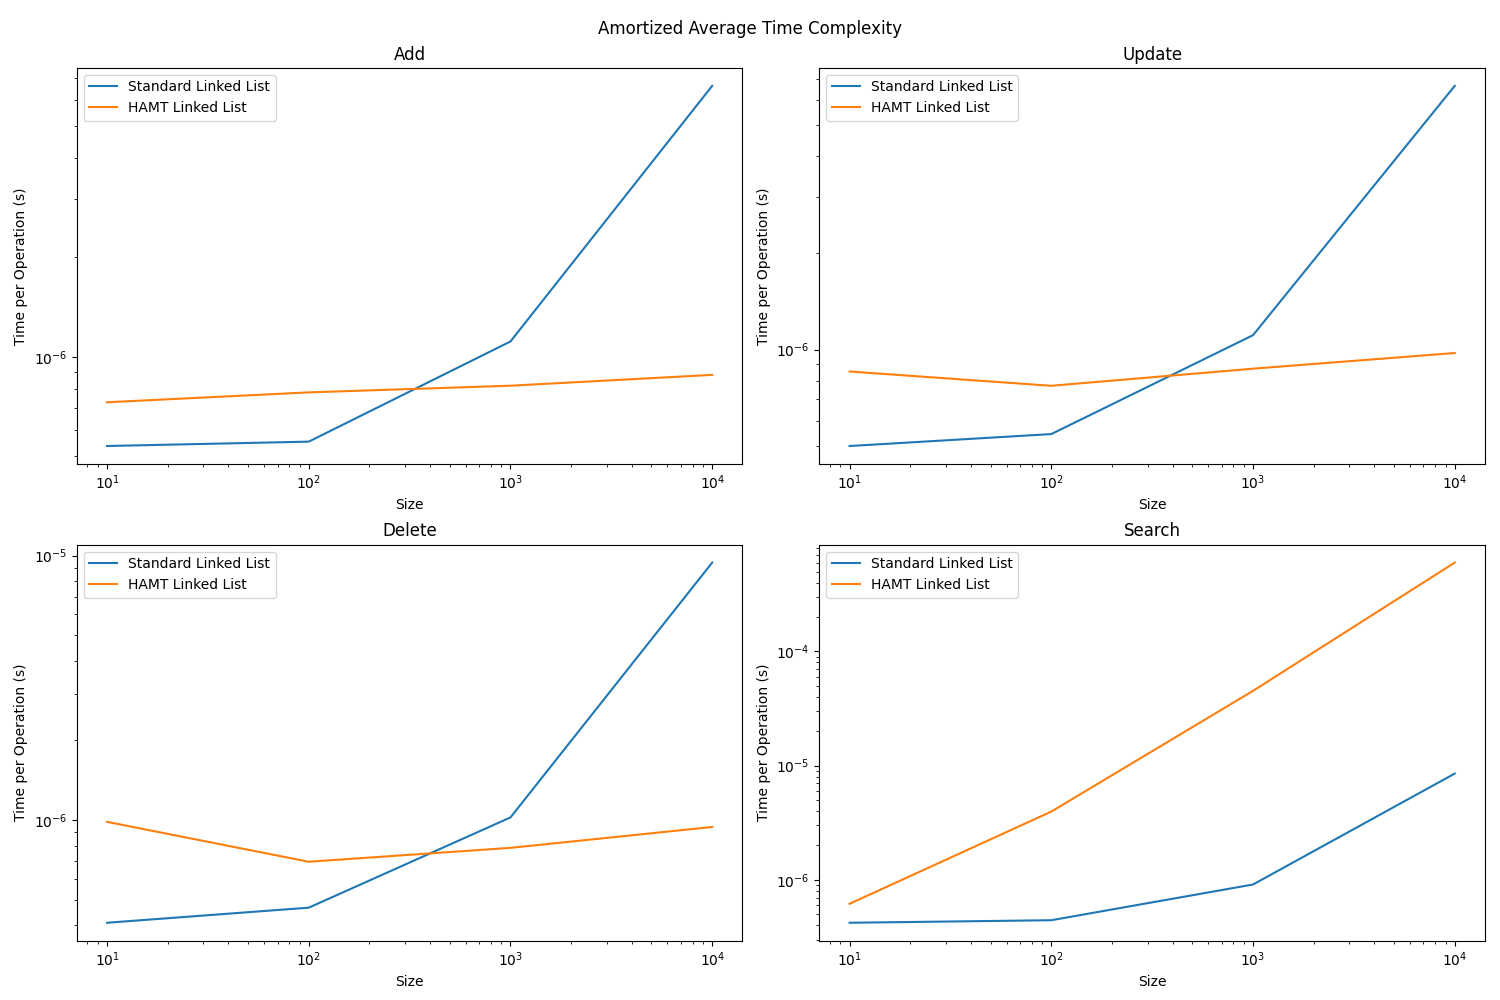
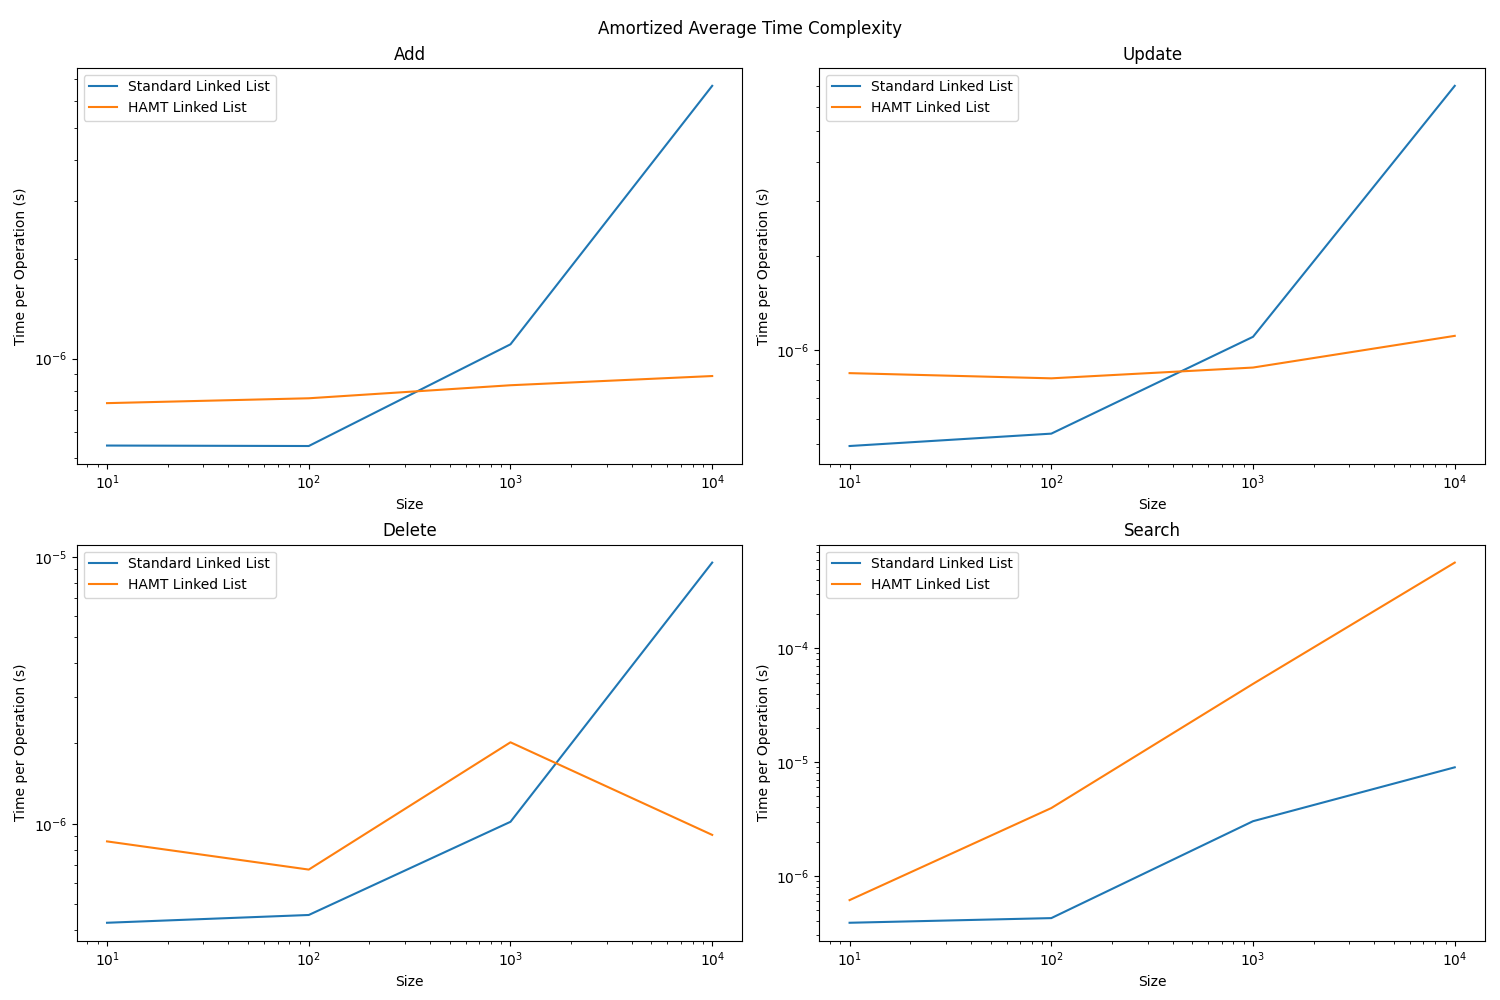
readme

diff --git a/hamt_experiments.py b/hamt_experiments.py
@@ -39,7 +39,7 @@ def measure_time(func, *args):
     return end_time - start_time
 
 def experiment_time_complexity():
-    sizes = [10, 100, 1000, 10000, 100000]
+    sizes = [10, 100, 1000, 10000]
     operations = ['add', 'update', 'delete', 'search']
     std_times = {op: [] for op in operations}
     hamt_times = {op: [] for op in operations}

diff --git a/README.md b/README.md
@@ -1,0 +1,90 @@
+```
+# Persistent Hash Array Mapped Trie (HAMT) Implementation
+
+This project implements a persistent Hash Array Mapped Trie (HAMT) data structure in C. The HAMT allows for efficient storage and retrieval of key-value pairs with a focus on persistence, enabling efficient versioning and rollback operations.
+
+## Table of Contents
+
+- [Background](#background)
+- [Installation](#installation)
+- [Usage](#usage)
+- [Error Handling](#error-handling)
+- [Contributing](#contributing)
+- [License](#license)
+
+## Background
+
+A Hash Array Mapped Trie (HAMT) is a data structure that combines the properties of a hash table and a trie. It is particularly useful for persistent data structures, where old versions of the data need to be preserved while allowing efficient updates and queries.
+
+This project provides a C implementation of a versioned HAMT, allowing for the creation, insertion, updating, deletion, and querying of key-value pairs while maintaining multiple versions of the data.
+
+## Installation
+
+To use this project, follow these steps:
+
+1. Clone the repository to your local machine:
+
+```bash
+git clone <repository_url>
+cd persistent-hamt
+```
+
+2. Compile the source files using the provided Makefile:
+
+```bash
+make clean
+```
+
+```bash
+make
+```
+
+This will generate the shared library files.
+
+## Usage
+
+### Running Tests
+
+To run the included test suite, execute the following command:
+
+```bash
+python linked_list_std_test.py
+```
+
+```bash
+python linked_list_hamt_test.py
+```
+
+```bash
+python hamt_testing.py
+```
+
+```bash
+python hamt_experiments.py
+```
+
+This will execute a series of test cases to verify the functionality of the HAMT implementation.
+
+### Running Example
+
+An example program demonstrating the usage of the HAMT implementation is provided in `hamt.c`. To compile and run the example, use the following commands:
+
+```bash
+gcc -g hamt.c -o hamt
+./hamt
+```
+
+This will compile the example program and execute it.
+
+## Potential Error
+
+### `OSError: libhamt.so: cannot open shared object file: No such file or directory`
+
+If you encounter this error when running the example program or tests, it means that the system cannot find the shared library `libhamt.so`. To resolve this, you need to set the `LD_LIBRARY_PATH` environment variable to include the directory containing `libhamt.so`. You can do this using the following command:
+
+```bash
+export LD_LIBRARY_PATH=/path/to/libhamt.so:$LD_LIBRARY_PATH
+```
+
+Replace `/path/to/libhamt.so` with the actual path to the `libhamt.so` file in your system.
+```
